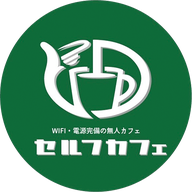
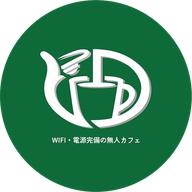
ピンのマークから「セルフカフェ」の文字を外す

Changed region(s): [[0.1562, 0.1875, 0.875, 0.8125], [0.9688, 0.4688, 1.0, 0.5312]]

diff --git a/index.html b/index.html
@@ -76,7 +76,7 @@ font-size:15px;padding:12px 24px;cursor:pointer;display:inline-flex;align-items:
 .scf-loc .scf-more{border:1px solid var(--g);background:rgba(255,255,255,.7);color:var(--g);border-radius:9999px;padding:10px;font:inherit;font-weight:700;cursor:pointer;transition:all .3s}
 .scf-loc .scf-more:hover{background:rgba(146,175,12,.5)}
 .scf-loc .scf-note{font-size:12px;color:var(--sub);margin-top:10px}
-/* 店舗のピン: 白いしずく型に緑の縁、中央に余白をとってセルフカフェのマーク（mark.png＝文字まで入ったマーク全体）。検索結果は大きくして右上に順位（2026-10-17 ユーザーの手描き案） */
+/* 店舗のピン: 白いしずく型に緑の縁、中央に余白をとってセルフカフェのマーク（mark.png＝カップと「WIFI・電源完備の無人カフェ」。下の「セルフカフェ」は外す＝ユーザー指定）。検索結果は大きくして右上に順位（2026-10-17 ユーザーの手描き案） */
 .scf-loc .scf-mk{cursor:pointer;line-height:0}
 .scf-loc .scf-pinsvg{display:block;width:40px;height:52px;filter:drop-shadow(0 2px 2px rgba(0,0,0,.3));overflow:visible}
 .scf-loc .scf-mk.on .scf-pinsvg{width:54px;height:70px}
@@ -172,7 +172,7 @@ font-family:"Jost",sans-serif;font-size:12px;font-weight:600;display:none;place-
 // 店舗一覧の控え（座標つき）。HP の REST は返事に 8 秒ほどかかるので、まずこれで表示し、最新情報が届いたら差し替える
 var SNAP = [{"id":2691,"name":"セルフカフェ 木曽岬店","url":"https://selfcafe.jp/shop/mie/kisomisaki/","address":"三重県桑名郡木曽岬町大字西対海地２５１木曽岬町役場内１階","time":"[月火水木] 8:30～18:00 [金] 8:30～20:00 [土・日・祝休日]9:00～17:00","holiday":"年末年始","access":"木曽岬町自主運行バス 源緑見入線 木曽岬町体育館駅停留所より徒歩2分","svc":[],"parking":"有","lat":35.075695,"lng":136.73085},{"id":3224,"name":"セルフカフェ フィールズ南柏店","url":"https://selfcafe.jp/shop/chiba/fields-minamikashiwa/","address":"千葉県柏市南柏中央６－７フィールズ南柏モールⅡ３階","time":"10:00～20:00","holiday":"無し","access":"JR 常磐線南柏駅徒歩１分","svc":["koshitu"],"parking":"有","lat":35.844086,"lng":139.955124},{"id":531,"name":"セルフカフェ 印西牧の原店","url":"https://selfcafe.jp/shop/chiba/inzaimakinohara/","address":"千葉県印西市原１－２ＢＩＧＨＯＰガーデンモール印西１階","time":"10:00~20:00","holiday":"無し","access":"北総線 「印西牧の原」駅徒歩10分","svc":[],"parking":"施設内駐車場あり","lat":35.803074,"lng":140.164886},{"id":2306,"name":"セルフカフェ カインズ上里本庄店","url":"https://selfcafe.jp/shop/saitama/cainzkamisatohonjo/","address":"埼玉県児玉郡上里町大字神保原町字北稲塚１８４５","time":"8：00～21：00","holiday":"無し","access":"高崎線 「神保原」駅 徒歩13分","svc":[],"parking":"施設駐車場あり","lat":36.258087,"lng":139.15477},{"id":904,"name":"セルフカフェ あべの南店","url":"https://selfcafe.jp/shop/osaka/abenominami/","address":"大阪府大阪市阿倍野区播磨町１－２１－１３ＤＭビル１階","time":"24時間営業","holiday":"無し","access":"大阪メトロ御堂筋線 「西田辺」駅、徒歩6分","svc":[],"parking":"無し","lat":34.622288,"lng":135.509109},{"id":2442,"name":"セルフカフェ イオンタウン東大阪店","url":"https://selfcafe.jp/shop/osaka/aeontownhigashiosaka/","address":"大阪府東大阪市東鴻池町１－６－３０","time":"7:00～24:00","holiday":"無し","access":"JR学研都市線 「住道駅」徒歩約21分","svc":[],"parking":"施設駐車場あり","lat":34.693275,"lng":135.618057},{"id":1880,"name":"セルフカフェ 上新庄店","url":"https://selfcafe.jp/shop/osaka/kamishinjo/","address":"大阪府大阪市東淀川区瑞光１－１２－１２至誠ビル１０２","time":"5:00～24:30","holiday":"無し","access":"阪急京都線 「上新庄」駅、徒歩1分","svc":["koshitu"],"parking":"無し","lat":34.749062,"lng":135.533859},{"id":1203,"name":"セルフカフェ 京橋北店","url":"https://selfcafe.jp/shop/osaka/kyoubashikita/","address":"大阪府大阪市都島区東野田町５－１５－５大野マンション１階","time":"24時間営業","holiday":"無し","access":"JR大阪環状線・JR東西線・JR片町線・京阪本線・大阪メトロ長堀鶴見緑地線 「京橋」駅、徒歩8分","svc":["koshitu"],"parking":"無し","lat":34.702007,"lng":135.535294},{"id":922,"name":"セルフカフェ 南森町店","url":"https://selfcafe.jp/shop/osaka/minamimorimati/","address":"大阪府大阪市北区東天満２－１０－３１第９田渕ビル１階","time":"24時間営業","holiday":"無し","access":"ＪＲ東西線・学研都市線 「大阪天満宮」駅、徒歩5分 大阪メトロ堺筋線 「南森町」駅、徒歩5分","svc":[],"parking":"無し","lat":34.698376,"lng":135.513626},{"id":1485,"name":"セルフカフェ 喜志店","url":"https://selfcafe.jp/shop/osaka/kishi/","address":"大阪府富田林市喜志５－３－３７メゾン・ド・ＭＩＹＡＶＩ１０１号室","time":"24時間営業","holiday":"無し","access":"近鉄長野線 「喜志」駅、徒歩3分","svc":["koshitu"],"parking":"無し","lat":34.521835,"lng":135.593506},{"id":1962,"name":"セルフカフェ 大阪平野西店","url":"https://selfcafe.jp/shop/osaka/osakahiranonishi/","address":"大阪府大阪市平野区平野西５－７－２Ｆｅｒｉｏ１階","time":"24時間営業","holiday":"無し","access":"大阪メトロ谷町線 「平野」駅、徒歩5分","svc":["koshitu"],"parking":"無し","lat":34.61924,"lng":135.546906},{"id":495,"name":"セルフカフェ 天満店","url":"https://selfcafe.jp/shop/osaka/tenma/","address":"大阪府大阪市北区天神橋３－８－２３コア扇町２階","time":"5:00～翌2:00","holiday":"無し","access":"大阪環状線「天満駅」徒歩5分。 大阪メトロ堺筋線「扇町駅」徒歩2分。","svc":["koshitu","kaigi","member"],"parking":"無し","lat":34.702076,"lng":135.511459},{"id":2852,"name":"セルフカフェ 天満橋北店","url":"https://selfcafe.jp/shop/osaka/tenmabashikita/","address":"大阪府大阪市中央区大手前１－３－４９ドーンセンター１階","time":"[火～土]9:00～21:30 [日・祝]9:00～17:00","holiday":"月曜日（祝日・振替休日を除く）・年末年始","access":"京阪本線・Osaka Metro谷町線「天満橋」駅 1番出入口より徒歩3分 JR東西線「大阪城北詰」駅 2号出口より徒歩5分","svc":[],"parking":"無し","lat":34.689968,"lng":135.520569},{"id":1201,"name":"セルフカフェ 太子橋店","url":"https://selfcafe.jp/shop/osaka/taishibashi/","address":"大阪府守口市京阪本通１－２－１０京阪キクマビル１０１号室","time":"24時間営業","holiday":"無し","access":"谷町線・今里筋線 「太子橋今市」駅、徒歩5分","svc":["koshitu"],"parking":"無し","lat":34.732952,"lng":135.557343},{"id":1103,"name":"セルフカフェ 守口駅前店","url":"https://selfcafe.jp/shop/osaka/moriguchiekimae/","address":"大阪府守口市京阪本通２－１６－８メゾンレクト１０２","time":"24時間営業","holiday":"無し","access":"大阪メトロ谷町線 「守口」駅、徒歩3分","svc":[],"parking":"無し","lat":34.738842,"lng":135.564102},{"id":1211,"name":"セルフカフェ 心斎橋東急ビル店","url":"https://selfcafe.jp/shop/osaka/shinsaibashitokyuubiru/","address":"大阪府大阪市中央区南船場４－４－３心斎橋東急ビルＢ１階","time":"5：00～24：00","holiday":"無し","access":"御堂筋線「心斎橋」駅、徒歩1分。","svc":[],"parking":"無し","lat":34.675686,"lng":135.500076},{"id":763,"name":"セルフカフェ 東大阪小若江店","url":"https://selfcafe.jp/shop/osaka/kowakae/","address":"大阪府東大阪市小若江２－９－３３アバハイム西村","time":"24時間営業","holiday":"無し","access":"近鉄大阪線 「長瀬」駅、徒歩で10分","svc":[],"parking":"無し","lat":34.648731,"lng":135.583664},{"id":1568,"name":"セルフカフェ 梅田センタービル店","url":"https://selfcafe.jp/shop/osaka/umedacenterbldg/","address":"大阪府大阪市北区中崎西２－４－１２梅田センタービル地下１階","time":"6:30～23:30","holiday":"無し","access":"阪急電鉄 「大阪梅田」駅、徒歩７分。 大阪メトロ谷町線 「中崎町」駅、徒歩４分","svc":[],"parking":"無し","lat":34.705372,"lng":135.501572},{"id":760,"name":"セルフカフェ 相川駅前店","url":"https://selfcafe.jp/shop/osaka/aikawaekimae/","address":"大阪府大阪市東淀川区相川２－２０－８上本第二ビル１階","time":"5：00～4：00","holiday":"無し","access":"阪急京都本線 「相川」駅、徒歩1分","svc":[],"parking":"無し","lat":34.758106,"lng":135.534393},{"id":2445,"name":"セルフカフェ 蒲生四丁目店","url":"https://selfcafe.jp/shop/osaka/gamoyonchome/","address":"大阪府大阪市城東区今福西１－７－２蒲生四丁目駅前ビル２階","time":"24時間営業","holiday":"無し","access":"Osaka Metro 長堀鶴見緑地線・今里筋線 「蒲生四丁目」駅 徒歩約1分","svc":["koshitu"],"parking":"無し","lat":34.699749,"lng":135.546432},{"id":950,"name":"セルフカフェ 谷町九丁目店","url":"https://selfcafe.jp/shop/osaka/tanimachi9choume/","address":"大阪府大阪市中央区谷町９－５－１６バロンヴェールビル１０１","time":"24時間営業","holiday":"無し","access":"大阪メトロ千日前線, 谷町線 「谷町九丁目」駅、徒歩1分","svc":["koshitu","copy"],"parking":"無し","lat":34.668152,"lng":135.515823},{"id":3384,"name":"セルフカフェ 鶴見横堤店","url":"https://selfcafe.jp/shop/osaka/tsurumiyokozutsumi/","address":"大阪府大阪市鶴見区横堤３－１０－１９堤之ビル２階","time":"24時間","holiday":"無し","access":"大阪メトロ長堀鶴見緑地線「横堤駅」より徒歩2分","svc":["koshitu"],"parking":"無し","lat":34.703575,"lng":135.573547},{"id":3247,"name":"セルフカフェ大阪駅前第４ビル店","url":"https://selfcafe.jp/shop/osaka/osaka-ekimae4-building/","address":"大阪府大阪市北区梅田１－１１－４大阪駅前第４ビル１階４０号","time":"7:00～23:45","holiday":"毎年1月1日～3日","access":"大阪メトロ谷町線東梅田駅南改札より徒歩約1分（直結） JR東西線北新地駅東改札より徒歩約3分（地下街直結） 大阪メトロ御堂筋線梅田駅南改札より 徒歩約5分","svc":[],"parking":"無し","lat":34.699581,"lng":135.499298},{"id":3239,"name":"セルフカフェ イオンタウン大垣","url":"https://selfcafe.jp/shop/gifu/aeontown-ogaki/","address":"岐阜県大垣市三塚町丹瀬４６３－１イオンタウン大垣内","time":"10:30~22:00","holiday":"無し","access":"JR東海道本線 大垣駅 徒歩20分","svc":["koshitu","kaigi"],"parking":"有り","lat":35.365883,"lng":136.629562},{"id":2249,"name":"セルフカフェ イオンタウン岐阜北方店","url":"https://selfcafe.jp/shop/gifu/aeontowngifukitagata/","address":"岐阜県本巣郡北方町曲路東３－３－１イオンタウン岐阜北方内","time":"8：00～22：00","holiday":"無し","access":"JR岐阜駅よりバス約23分 「イオンタウン岐阜北方」下車","svc":[],"parking":"施設駐車場あり","lat":35.429836,"lng":136.697495},{"id":1480,"name":"セルフカフェ 盛岡大通店","url":"https://selfcafe.jp/shop/iwate/moriokaoodori/","address":"岩手県盛岡市大通２－３－４","time":"5：00～24：00","holiday":"無し","access":"東北新幹線.JR 「盛岡」駅、徒歩15分。 路線バス中央通2丁目 「中央通2丁目」、徒歩5分。","svc":["koshitu","kaigi"],"parking":"無し","lat":39.703125,"lng":141.146729},{"id":1106,"name":"セルフカフェ 盛岡駅前店","url":"https://selfcafe.jp/shop/iwate/moriokaekimae/","address":"岩手県盛岡市盛岡駅前通１５－１６ＳＳビル盛岡","time":"24時間営業","holiday":"無し","access":"JR東北本線 盛岡駅北口、徒歩1分。","svc":[],"parking":"無し","lat":39.703175,"lng":141.136002},{"id":1225,"name":"セルフカフェ T-FACE豊田店","url":"https://selfcafe.jp/shop/aichi/toyota/","address":"愛知県豊田市若宮町１－５７－１Ｔ－ＦＡＣＥ６階","time":"10：00～20：00","holiday":"無し","access":"名鉄豊田線・名鉄三河線・地下鉄鶴舞線・愛知環状鉄道 「豊田市」駅、徒歩1分","svc":["koshitu","kaigi","copy"],"parking":"施設駐車場あり","lat":35.087593,"lng":137.155624},{"id":96,"name":"セルフカフェ ささしまライブ店","url":"https://selfcafe.jp/shop/aichi/sasashima/","address":"愛知県名古屋市中村区平池町４－６０－１４マーケットスクエアささしま１階","time":"8:00~22:00","holiday":"無し","access":"JR・名鉄 JR、名鉄、近鉄、名古屋市営地下鉄東山線・桜通線「名古屋」駅、徒歩13分。 あおなみ線 名古屋臨海高速鉄道あおなみ線「ささしまライブ」駅より徒歩4分。","svc":["kaigi"],"parking":"無し","lat":35.16172,"lng":136.882553},{"id":1109,"name":"セルフカフェ クラスポ蒲郡店","url":"https://selfcafe.jp/shop/aichi/gamagori/","address":"愛知県蒲郡市鹿島町浅井新田１－２６","time":"10:00～20:00","holiday":"無し","access":"名鉄蒲郡線 「三河鹿島」駅、徒歩10分。","svc":[],"parking":"施設内駐車場あり","lat":34.811646,"lng":137.195023},{"id":745,"name":"セルフカフェ ナディアパーク栄店","url":"https://selfcafe.jp/shop/aichi/nadyaparksakae/","address":"愛知県名古屋市中区栄３－１８－１ナディアパーククレアーレ内１階","time":"11:00~20:00","holiday":"無し","access":"名古屋市営東山線・名城線 「栄」駅、徒歩で10分。 名古屋市名城線 「矢場町」駅、徒歩で10分。","svc":[],"parking":"無し","lat":35.165794,"lng":136.904938},{"id":1123,"name":"セルフカフェ ルビットタウン刈谷店","url":"https://selfcafe.jp/shop/aichi/luvittown-kariya/","address":"愛知県刈谷市高倉町２－６０１ルビットタウン刈谷１階","time":"月～土：10:00～20:00 日：9:30～20:00","holiday":"無し","access":"JR東海道本線 「逢妻」駅、徒歩19分","svc":[],"parking":"施設駐車場あり","lat":35.002117,"lng":136.998566},{"id":384,"name":"セルフカフェ 中村日赤店","url":"https://selfcafe.jp/shop/aichi/nakamuranisseki/","address":"愛知県名古屋市中村区寿町１０","time":"5:00～翌4:00","holiday":"無し","access":"名古屋市営地下鉄東山線「中村日赤」駅徒歩8分","svc":["koshitu","kaigi"],"parking":"無し","lat":35.170979,"lng":136.866837},{"id":989,"name":"セルフカフェ 中村日赤鳥居通店","url":"https://selfcafe.jp/shop/aichi/toriidori/","address":"愛知県名古屋市中村区鳥居通４－１６","time":"24時間営業","holiday":"無し","access":"名古屋市営地下鉄東山線 「中村日赤」駅、徒歩3分","svc":["koshitu"],"parking":"無し","lat":35.170956,"lng":136.859543},{"id":3289,"name":"セルフカフェ 丸の内店","url":"https://selfcafe.jp/shop/aichi/marunouchi/","address":"愛知県名古屋市中区錦２－６－１５ＮＨＮＩＳＨＩＫＩ３階","time":"6:00～24:00","holiday":"無し","access":"名古屋市営地下鉄桜通線 丸の内駅5番出口 徒歩2分","svc":["koshitu","kaigi"],"parking":"無し","lat":35.171684,"lng":136.900604},{"id":985,"name":"セルフカフェ 亀島店","url":"https://selfcafe.jp/shop/aichi/kamejima/","address":"愛知県名古屋市中村区佐古前町２２－１３森ビル１階","time":"6：00～翌1：00","holiday":"無し","access":"名古屋市営地下鉄東山線 「亀島」駅、徒歩5分","svc":["koshitu"],"parking":"無し","lat":35.177708,"lng":136.872711},{"id":543,"name":"セルフカフェ 六番町店","url":"https://selfcafe.jp/shop/aichi/rokubancho/","address":"愛知県名古屋市熱田区六番２－８－３２","time":"7:00~24:00","holiday":"無し","access":"名古屋市営地下鉄名港線 「六番町」駅徒歩8分","svc":[],"parking":"無し","lat":35.121223,"lng":136.888214},{"id":93,"name":"セルフカフェ 千種店","url":"https://selfcafe.jp/shop/aichi/chikusa/","address":"愛知県名古屋市東区葵３－２５－１５シティファミール千種","time":"24時間","holiday":"無し","access":"JR東海 中央本線 名古屋市営地下鉄東山線「千種」駅、徒歩1分。","svc":["koshitu"],"parking":"無し","lat":35.169899,"lng":136.929626},{"id":2080,"name":"セルフカフェ 原店","url":"https://selfcafe.jp/shop/aichi/hara/","address":"愛知県名古屋市天白区原１－２０７原駅前ビル１階","time":"6：00～翌1：00","holiday":"無し","access":"名古屋市営地下鉄鶴舞線 「原」駅、徒歩1分","svc":["kaigi"],"parking":"無し","lat":35.126011,"lng":136.995361},{"id":993,"name":"セルフカフェ 太閤通駅店","url":"https://selfcafe.jp/shop/aichi/taikodorieki/","address":"愛知県名古屋市中村区黄金通１－２９","time":"5:00~翌3:00","holiday":"無し","access":"名古屋市営地下鉄桜通線 「太閤通」駅、徒歩1分","svc":["koshitu","kaigi","member","copy"],"parking":"無し","lat":35.167114,"lng":136.872177},{"id":3353,"name":"セルフカフェ 安城駅店","url":"https://selfcafe.jp/shop/aichi/anjoeki/","address":"愛知県安城市御幸本町１－１","time":"5:00～翌2:00","holiday":"無し","access":"JR東海道本線 安城駅 徒歩１分","svc":["koshitu"],"parking":"無し","lat":34.959995,"lng":137.086914},{"id":879,"name":"セルフカフェ 布袋駅店","url":"https://selfcafe.jp/shop/aichi/hoteieki/","address":"愛知県江南市布袋町西布２１８ＭＯＫＵＫＩＣＨＩ１０区画","time":"24時間営業","holiday":"無し","access":"名鉄犬山線 「布袋駅」駅、徒歩1分","svc":[],"parking":"無し","lat":35.31786,"lng":136.872589},{"id":457,"name":"セルフカフェ 常滑店","url":"https://selfcafe.jp/shop/aichi/tokoname/","address":"愛知県常滑市鯉江本町５－１４０ミュープラット常滑","time":"5:00～翌4:00","holiday":"無し","access":"名古屋鉄道常滑線「常滑」駅徒歩1分","svc":[],"parking":"無し","lat":34.889641,"lng":136.835358},{"id":1099,"name":"セルフカフェ 幸田店","url":"https://selfcafe.jp/shop/aichi/kota/","address":"愛知県額田郡幸田町相見沖原１","time":"24時間営業","holiday":"無し","access":"JR東海道本線「相見」駅、徒歩10分","svc":["koshitu","member"],"parking":"施設内多数あり（カメリアガーデン内）","lat":34.887058,"lng":137.162903},{"id":346,"name":"セルフカフェ 御器所店","url":"https://selfcafe.jp/shop/aichi/gokiso/","address":"愛知県名古屋市昭和区阿由知通４－１８－１トーカンマンション御器所","time":"7:00~22:00","holiday":"無し","access":"名古屋市営地下鉄桜通線・鶴舞線「御器所」駅4番出口徒歩1分","svc":[],"parking":"無し","lat":35.147488,"lng":136.933273},{"id":459,"name":"セルフカフェ 新守山店","url":"https://selfcafe.jp/shop/aichi/shinmoriyama/","address":"愛知県名古屋市守山区新守山２８３０アピタパワー新守山２階","time":"10:00～22:00","holiday":"無し","access":"JR中央本線 「新守山」駅徒歩5分","svc":[],"parking":"施設内駐車場あり","lat":35.204765,"lng":136.948975},{"id":773,"name":"セルフカフェ 新瑞橋店","url":"https://selfcafe.jp/shop/aichi/aratamabashi/","address":"愛知県名古屋市瑞穂区瑞穂通８－１３－３","time":"6:00~翌3:00","holiday":"無し","access":"名古屋市営地下鉄桜通線 「新瑞橋」駅、徒歩1分","svc":[],"parking":"無し","lat":35.117249,"lng":136.936432},{"id":1207,"name":"セルフカフェ 日比野店","url":"https://selfcafe.jp/shop/aichi/hibino/","address":"愛知県名古屋市熱田区千代田町１３－４三木ビル１階","time":"6：00～24：00","holiday":"無し","access":"名古屋市営地下鉄 「日比野」駅、徒歩5分 名古屋市バス 「中央卸売市場前」駅、徒歩1分","svc":["koshitu","kaigi"],"parking":"無し","lat":35.135857,"lng":136.893005},{"id":1209,"name":"セルフカフェ 星ヶ丘店","url":"https://selfcafe.jp/shop/aichi/hoshigaoka/","address":"愛知県名古屋市千種区井上町５０－１ＣＯＺＹＰＬＡＣＥ星ヶ丘１階","time":"6：00～翌1：00","holiday":"無し","access":"名古屋市営地下鉄東山線 「星ヶ丘」駅、徒歩3分","svc":["koshitu"],"parking":"無し","lat":35.161858,"lng":136.983032},{"id":3282,"name":"セルフカフェ 本陣店","url":"https://selfcafe.jp/shop/aichi/honjin/","address":"愛知県名古屋市中村区鳥居通２－１０","time":"6:00～24:00","holiday":"無し","access":"名古屋市営地下鉄東山線 本陣駅4番出口 徒歩1分","svc":["koshitu","kaigi"],"parking":"無し","lat":35.175903,"lng":136.866028},{"id":535,"name":"セルフカフェ 栄店","url":"https://selfcafe.jp/shop/aichi/sakae/","address":"愛知県名古屋市中区錦３－１７－１５ドン・キホーテ栄本店６階","time":"6:00~翌2:00","holiday":"無し","access":"名古屋市営地下鉄東山線・名城線「栄」駅より徒歩1分。 名古屋鉄道瀬戸線「栄町」駅より徒歩5分","svc":[],"parking":"無し","lat":35.170097,"lng":136.90657},{"id":875,"name":"セルフカフェ 栄生店","url":"https://selfcafe.jp/shop/aichi/sako/","address":"愛知県名古屋市西区栄生２－４－５","time":"5:00～翌4:00","holiday":"無し","access":"名鉄名古屋本線 「栄生」駅、徒歩1分","svc":["koshitu","member"],"parking":"無し","lat":35.184032,"lng":136.873901},{"id":379,"name":"セルフカフェ 桜山店","url":"https://selfcafe.jp/shop/aichi/sakurayama/","address":"愛知県名古屋市昭和区広見町５－５６－６プチメゾン桜山","time":"5:00～翌4:00","holiday":"無し","access":"名古屋市営地下鉄桜通線「桜山」駅徒歩5分","svc":[],"parking":"無し","lat":35.140938,"lng":136.930359},{"id":1277,"name":"セルフカフェ 池下店","url":"https://selfcafe.jp/shop/aichi/ikeshita/","address":"愛知県名古屋市千種区池下１－１１－１１第４６プロスパー池下２階","time":"24時間営業","holiday":"無し","access":"名古屋市営地下鉄東山線 「池下」駅、徒歩1分","svc":["koshitu","kaigi","member"],"parking":"無し","lat":35.167633,"lng":136.945343},{"id":449,"name":"セルフカフェ 瀬戸岩屋堂店","url":"https://selfcafe.jp/shop/aichi/setoiwayado/","address":"愛知県瀬戸市岩屋町８１","time":"5:00～翌4:00","holiday":"無し","access":"国定公園「岩屋堂公園内」","svc":[],"parking":"無料駐車場多数あり ※有料になる時期もあります","lat":35.239231,"lng":137.156616},{"id":59,"name":"セルフカフェ 神沢店","url":"https://selfcafe.jp/shop/aichi/kamisawa/","address":"愛知県名古屋市緑区神沢１－２０５","time":"5:00～翌4:00","holiday":"無し","access":"名古屋市営地下鉄桜通線「神沢」駅徒歩1分。","svc":[],"parking":"無し","lat":35.098301,"lng":136.98941},{"id":386,"name":"セルフカフェ 緑鴻仏目店","url":"https://selfcafe.jp/shop/aichi/midorikoubutsume/","address":"愛知県名古屋市緑区鴻仏目１－１０２ベルインビルＢ棟","time":"5:00～翌4:00","holiday":"無し","access":"名古屋市営地下鉄桜通線「徳重」駅 車10分","svc":["koshitu"],"parking":"2台","lat":35.080513,"lng":136.978073},{"id":2084,"name":"セルフカフェ 藤が丘店","url":"https://selfcafe.jp/shop/aichi/fujigaoka/","address":"愛知県名古屋市名東区明が丘１２５藤が丘コーポラス１階","time":"6：00～翌0：00","holiday":"無し","access":"名古屋市営地下鉄東山線 「藤が丘」駅、徒歩1分","svc":["koshitu","kaigi"],"parking":"無し","lat":35.182354,"lng":137.019913},{"id":407,"name":"セルフカフェ 赤塚店","url":"https://selfcafe.jp/shop/aichi/akatsuka/","address":"愛知県名古屋市東区山口町１－２４エノキドビル１階・２階","time":"5:00～翌4:00","holiday":"無し","access":"名鉄瀬戸線「森下」駅徒歩10分","svc":[],"parking":"無し","lat":35.183552,"lng":136.924377},{"id":538,"name":"セルフカフェ 野並店","url":"https://selfcafe.jp/shop/aichi/nonami/","address":"愛知県名古屋市天白区野並３－４０１アサノビル２階","time":"5:00~22:00","holiday":"無し","access":"名古屋市営地下鉄桜通線「野並」駅徒歩1分","svc":[],"parking":"無し","lat":35.10173,"lng":136.955811},{"id":3225,"name":"セルフカフェ 高畑店","url":"https://selfcafe.jp/shop/aichi/takabata/","address":"愛知県名古屋市中川区高畑５－１５６－１","time":"6:00～24:00","holiday":"無し","access":"名古屋市営地下鉄東山線八田駅4番出口 徒歩5分 名古屋市営地下鉄東山線高畑駅2番出口 徒歩5分","svc":["koshitu","kaigi","member"],"parking":"無し","lat":35.143929,"lng":136.852829},{"id":2359,"name":"セルフカフェ 鳴海山下店","url":"https://selfcafe.jp/shop/aichi/narumiyamashita/","address":"愛知県名古屋市緑区鳴海町山下７８－１コナミスポーツクラブ鳴海山下内","time":"[月水木金] 10:00～22:00 [土] 10:00～20:00 [日・祝休日] 10:00～18:00","holiday":"火曜日","access":"名古屋市営地下鉄 桜通線 「野並駅」徒歩約15分","svc":[],"parking":"施設駐車場あり","lat":35.093269,"lng":136.949295},{"id":355,"name":"セルフカフェ 鶴舞店","url":"https://selfcafe.jp/shop/aichi/tsurumai/","address":"愛知県名古屋市中区千代田３－３－３ＴＫ１ｓｔビル","time":"5:00～翌4:00","holiday":"無し","access":"名古屋市営地下鉄鶴舞線「鶴舞」駅 徒歩5分 名古屋市営地下鉄鶴舞線「上前津」駅 3番出口徒歩6分","svc":[],"parking":"無し","lat":35.156414,"lng":136.911194},{"id":667,"name":"セルフカフェ名駅西口店","url":"https://selfcafe.jp/shop/aichi/meiekinishiguchi/","address":"愛知県名古屋市中村区椿町６－２三共ビル１階","time":"5:00~翌1:00","holiday":"無し","access":"JR、名鉄、近鉄、名古屋市営地下鉄東山線・桜通線「名古屋」駅、徒歩1分。","svc":[],"parking":"無し","lat":35.170887,"lng":136.879517},{"id":675,"name":"セルフカフェ長久手店","url":"https://selfcafe.jp/shop/aichi/nagakute/","address":"愛知県長久手市戸田９０１－１アピタ長久手２階フードコート内","time":"9:00~21:30","holiday":"無し","access":"愛知高速交通東部丘陸線 リニモ「杁ヶ池公園」直結","svc":["member"],"parking":"施設内多数あり","lat":35.173565,"lng":137.037491},{"id":2818,"name":"セルフカフェ 千歳烏山店","url":"https://selfcafe.jp/shop/tokyo/chitosekarasuyama/","address":"東京都世田谷区南烏山６－３－１４池田ビル３階","time":"5：00～翌25：00","holiday":"無し","access":"京王線千歳烏山駅徒歩２分","svc":["koshitu"],"parking":"無し","lat":35.669674,"lng":139.600525},{"id":1517,"name":"セルフカフェ 大塚駅南口店","url":"https://selfcafe.jp/shop/tokyo/otsukaminamiguchi/","address":"東京都豊島区南大塚２－４６－３大塚グリーンビル６階","time":"6:00～24:00","holiday":"無し","access":"ＪＲ山手線 「大塚」駅、徒歩1分","svc":["koshitu"],"parking":"無し","lat":35.731083,"lng":139.729507},{"id":1683,"name":"セルフカフェ 巣鴨駅南口店","url":"https://selfcafe.jp/shop/tokyo/sugamominamiguchi/","address":"東京都豊島区巣鴨１－１７－８ｎＺ１１７８ビル２階","time":"5:00～翌1:00","holiday":"無し","access":"ＪＲ山手線 「巣鴨」駅、徒歩1分","svc":["member"],"parking":"無し","lat":35.732693,"lng":139.739151},{"id":2255,"name":"セルフカフェ 新宿西口Shinjuku Future Gallery店","url":"https://selfcafe.jp/shop/tokyo/shinjukunishiguchi/","address":"東京都新宿区西新宿１－５－１１新宿三葉ビル１階","time":"10:00～20:00","holiday":"日曜・年末年始休み","access":"JR・小田急・京王・東京メトロ・都営地下鉄 「新宿」駅 徒歩１分","svc":[],"parking":"無し","lat":35.692627,"lng":139.698029},{"id":2816,"name":"セルフカフェ 早稲田店","url":"https://selfcafe.jp/shop/tokyo/waseda/","address":"東京都新宿区馬場下町６１－６高橋ビル４階","time":"2026年8月15日OPEN 6：00～24：00","holiday":"無し","access":"東京メトロ 東西線早稲田駅徒歩1分","svc":["koshitu"],"parking":"無し","lat":35.70612,"lng":139.720352},{"id":1693,"name":"セルフカフェ 梅島店","url":"https://selfcafe.jp/shop/tokyo/umejima/","address":"東京都足立区梅田８－３－９石井サニービル４階","time":"5:00～翌4:00","holiday":"無し","access":"東武スカイツリーライン 梅島駅 徒歩1分","svc":[],"parking":"無し","lat":35.772583,"lng":139.79747},{"id":2087,"name":"セルフカフェ 渋谷神南店","url":"https://selfcafe.jp/shop/tokyo/shibuyajinnan/","address":"東京都渋谷区神南１－１９－１４クリスタルポイント地下２階","time":"6:00～翌2:00","holiday":"無し","access":"JR・東急・京王・東京メトロ 「渋谷」駅、徒歩5分","svc":["koshitu","kaigi","member","copy"],"parking":"無し","lat":35.662666,"lng":139.699677},{"id":2104,"name":"セルフカフェ イオンタウン彦根店","url":"https://selfcafe.jp/shop/shiga/aeontownhikone/","address":"滋賀県彦根市古沢町２５５－１イオンタウン彦根内","time":"9:00～22:00","holiday":"無し","access":"ＪＲ東海道本線 「彦根」駅、徒歩10分","svc":[],"parking":"施設駐車場あり","lat":35.271404,"lng":136.26799},{"id":455,"name":"セルフカフェ 浜松新橋店","url":"https://selfcafe.jp/shop/shizuoak/hamamatsu/","address":"静岡県浜松市中央区新橋町１４００－１イオンタウン浜松新橋","time":"5:00~翌4:00","holiday":"無し","access":"JR東海道本線 「浜松駅」より車で15分","svc":[],"parking":"施設内駐車場あり","lat":34.679379,"lng":137.711365},{"id":2157,"name":"セルフカフェ 鳥取駅前店","url":"https://selfcafe.jp/shop/tottori/tottoriekimae/","address":"鳥取県鳥取市永楽温泉町１６０日交駅前ビル１階","time":"24時間営業","holiday":"無し","access":"JR山陰本線・因美線 「鳥取」駅、徒歩1分","svc":[],"parking":"無し","lat":35.494823,"lng":134.227798}];
 var SHOP_API = "https://selfcafe.jp/wp-json/wp/v2/shop?per_page=100&_fields=id,link,title,acf";
-var MARK = "mark.png?v=2";  // ピンに入れるセルフカフェのマーク（このページと同じ場所に置く）
+var MARK = "mark.png?v=3";  // ピンに入れるセルフカフェのマーク（このページと同じ場所に置く）
 var GMAPS = {"key": "AIzaSyAp8aSpDZnlo-TSvO7ahg4OE2WRiT2RXBg", "mapId": "dab2d924dc1d382b14afcc83"};  // Google マップの APIキー（selfcafe.jp・selfcafe.github.io だけで使える制限つき）と マップID
 // 設備・サービスの条件（HP の店舗案内の「有料サービス」・営業時間・定休日・駐車場から判定）
 var FEATURES = [
